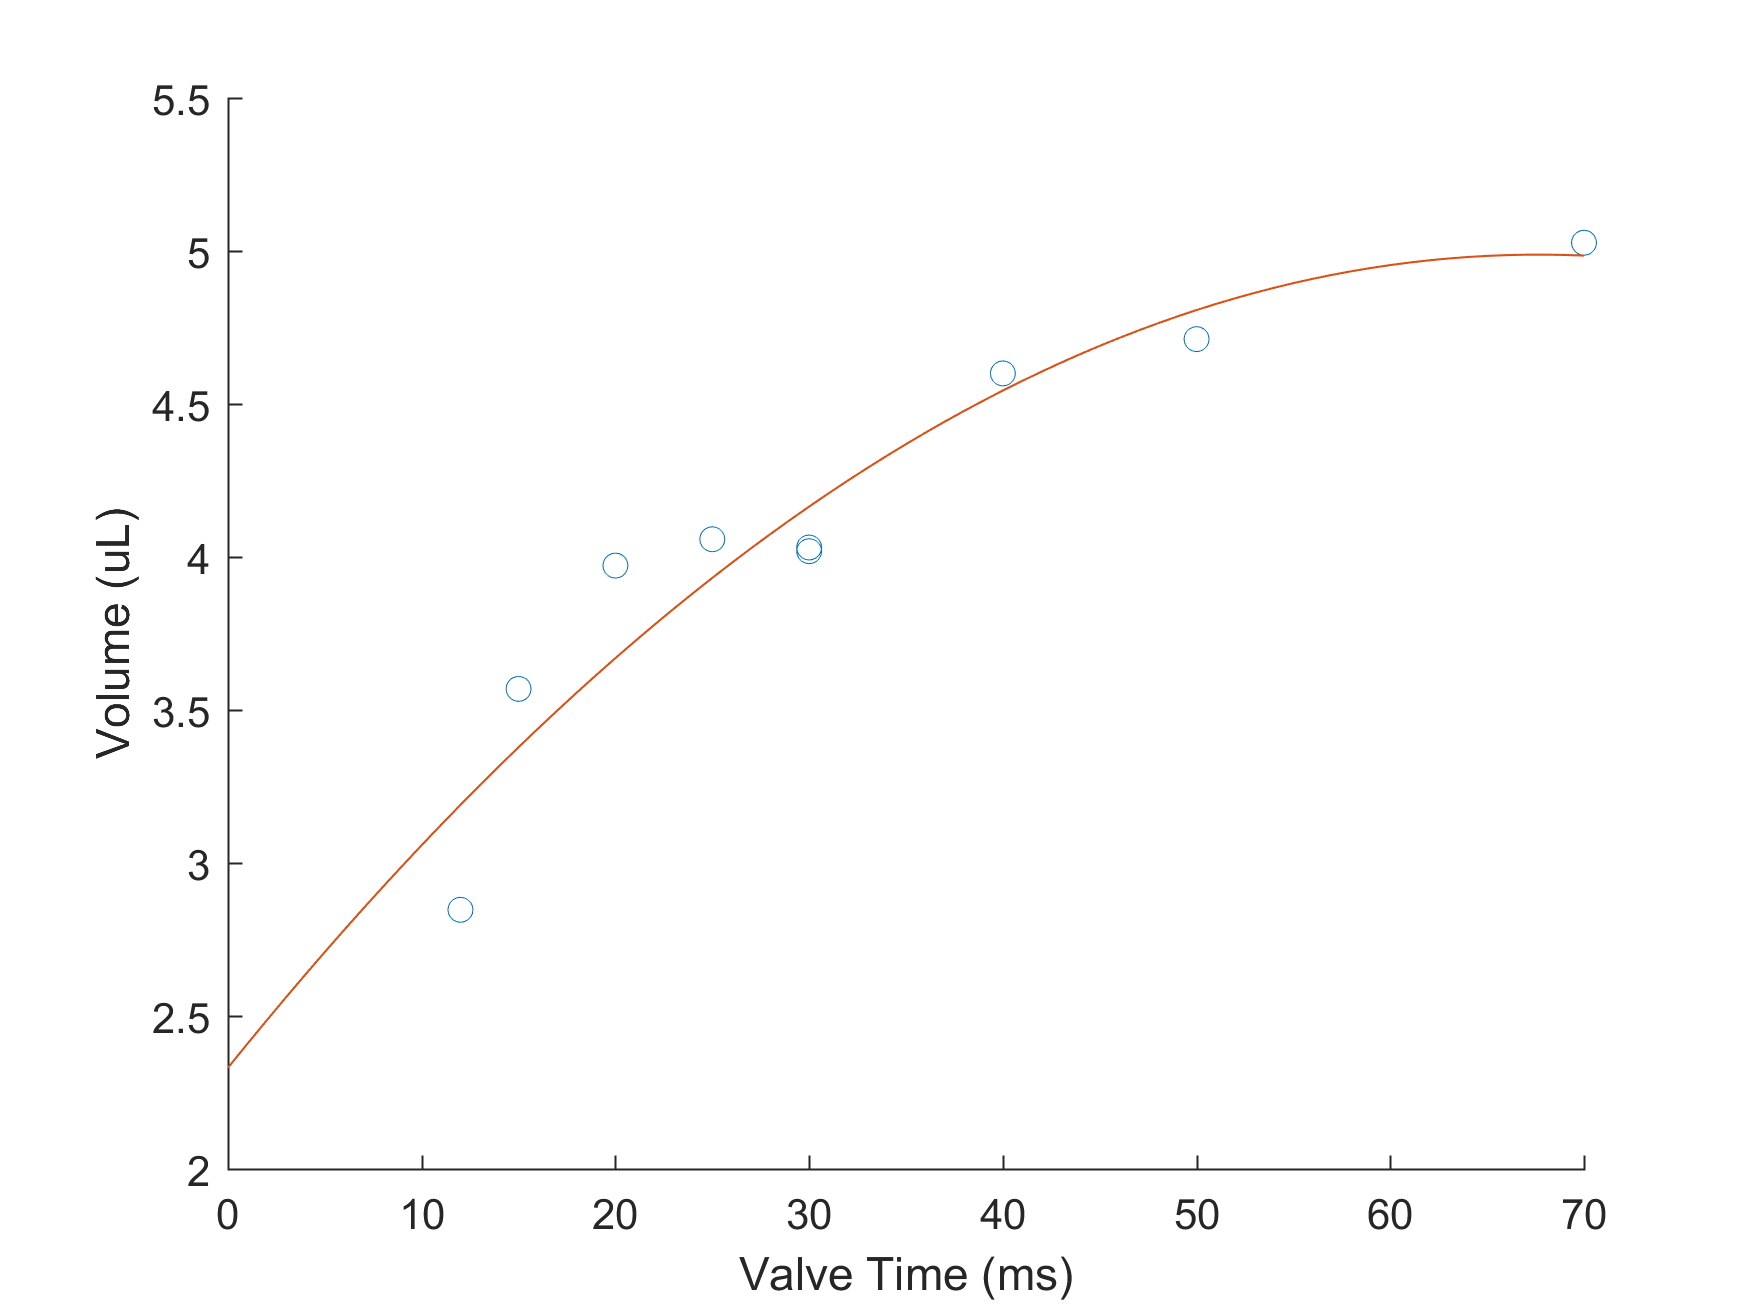
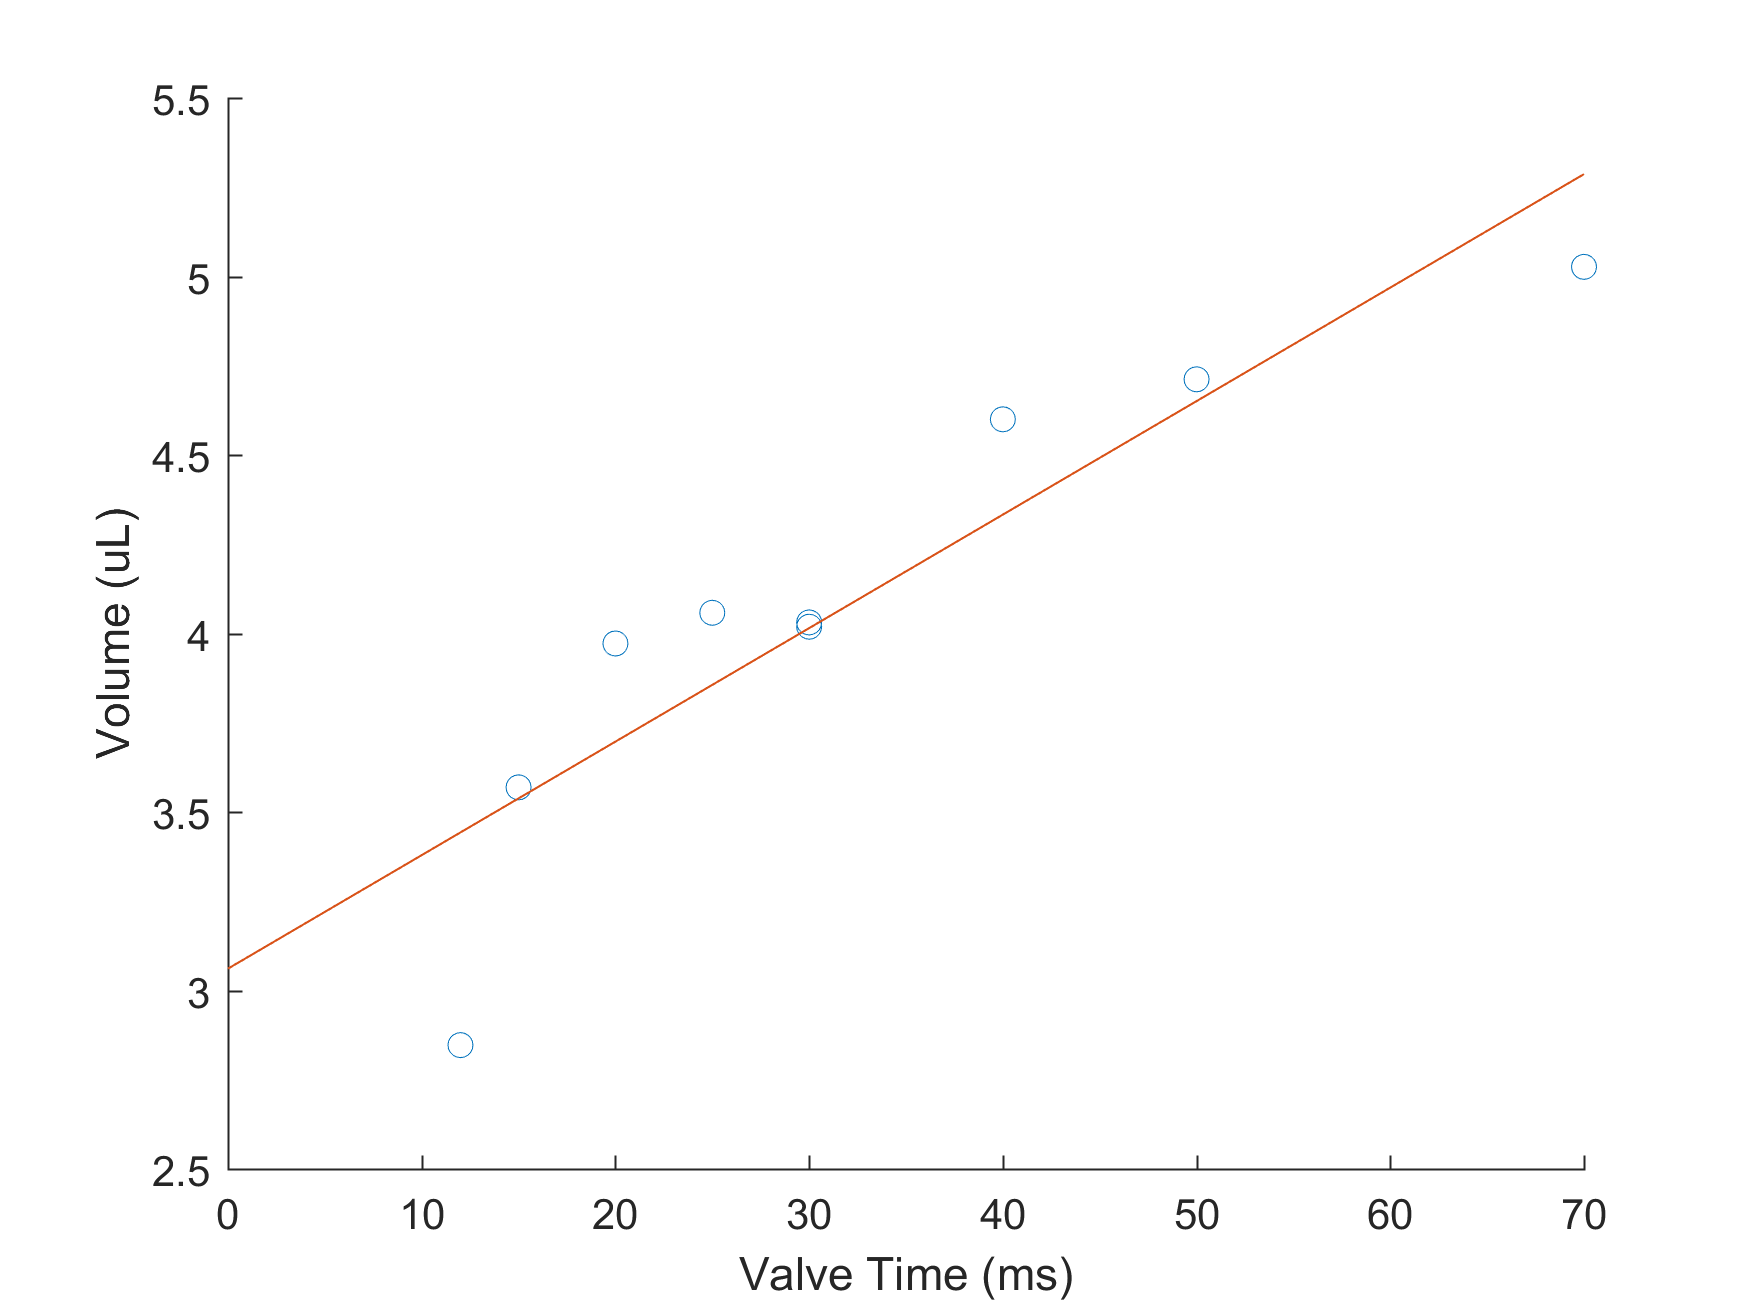
update

diff --git a/solenoidCalibration.m b/solenoidCalibration.m
@@ -1,17 +1,17 @@
 clear all; close all;
 
 % args
-fn = '180801_solenoidCalibration_booth4';
+fn = '180801_solenoidCalibration_booth5';
 file = ['D:\GitHub\solenoidCalibration\' fn '.txt'];
 order = 1;
-targetVol = 2.5; %microliters
+targetVol = 5; %microliters
 
 % load and fit data
 header = csvread(file,[0]);
 d = header(2:end,:);
 header = header(1,1);
 d(:,2) = (d(:,2)-header) * 1000 / 100;
-p = polyfit(d(:,1),d(:,2),2);
+p = polyfit(d(:,1),d(:,2),1);
 x = 0:max(d(:,1));
 yhat = polyval(p,x);
 
@@ -19,6 +19,7 @@ yhat = polyval(p,x);
 valveTime = (targetVol - p(2)) / p(1);
 nLicks = 1000 / targetVol;
 
+fprintf('\n\nBooth - %s\n',fn);
 fprintf('Desired valve time for %02.2fuL per lick: %06.4fms\n',targetVol,valveTime);
 fprintf('%d licks per 1mL\n',nLicks);
 
